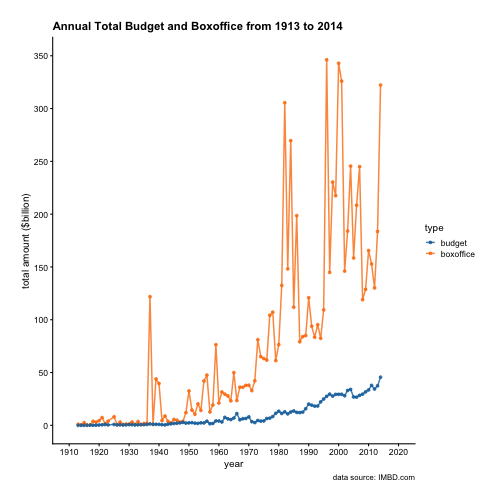
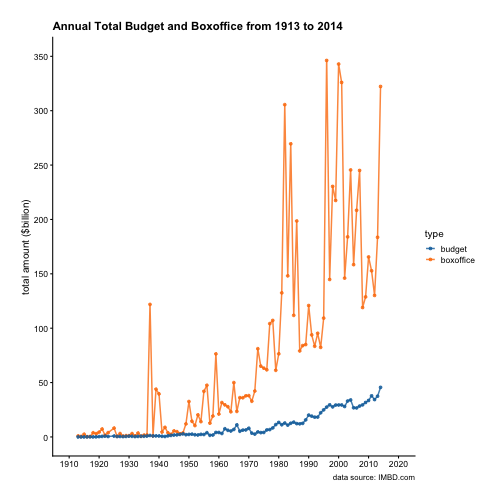
update 05-02-xxx

diff --git a/manuscript/05-02-lineplot.md b/manuscript/05-02-lineplot.md
@@ -8,9 +8,8 @@ A>
 library(ezplot)
 plt = mk_lineplot(btbo_by_year)
 p = plt("year", "avg", fillby = "type", font_size = 10, add_cnt_to_legend = F)
-add_labs(p, ylab = "total amount ($billion)",
+add_labs(p, ylab = "total amount ($billion)", xlab = NULL, subtitle = NULL,
          title = "Annual Total Budget and Boxoffice from 1913 to 2014",
-         subtitle = NULL,
          caption = "data source: IMBD.com")
 ```
 
@@ -30,9 +29,11 @@ df = btbo_by_year %>% select(-avg) %>% spread(type, tot) %>%
         mutate(bo_bt_ratio = boxoffice / budget)
 plt = mk_lineplot(df)
 p = plt("year", "bo_bt_ratio")
-p = p + ggplot2::geom_hline(yintercept = 10, linetype = 2)
-add_labs(p, ylab="boxoffice/budget ratio",
-         title = "Boxoffice/Budget Ratio from 1913 to 2014",
+p = p + ggplot2::geom_hline(yintercept = 10, linetype = 2) +
+        ggplot2::geom_text(x = 2005, y = 20, color = "black",
+                           label = "10x line")
+add_labs(p, ylab="boxoffice/budget", xlab = NULL,
+         title = "Boxoffice/Budget (1913 - 2014)",
          caption = "data source: IMDB.com")
 ```
 
@@ -120,7 +121,7 @@ add_labs(p, xlab = bquote(delta),
          caption = cap)
 ```
 
-![plot of chunk unnamed-chunk-3](images/unnamed-chunk-3-1.png)
+![plot of chunk unnamed-chunk-4](images/unnamed-chunk-4-1.png)
 
 Now it's your turn. Try the following exercises for homework.
 

diff --git a/manuscript/05-01-scatterplot.md b/manuscript/05-01-scatterplot.md
@@ -77,8 +77,8 @@ flagging variable `action`.
 A>
 ```r
 p = plt("year", "bo_bt_ratio", fillby = "action", alpha = 0.5) %>% 
-        add_labs(ylab = "boxoffice/budget ratio", 
-                 title = "Boxoffice / Budget ratio (1913-2014)")
+        add_labs(ylab = "boxoffice/budget", 
+                 title = "Boxoffice / Budget (1913-2014)")
 p = p + ggplot2::geom_hline(yintercept = 1)
 p = scale_axis(p, scale="log10")
 add_lm_line(p, pval_xpos = "left")
